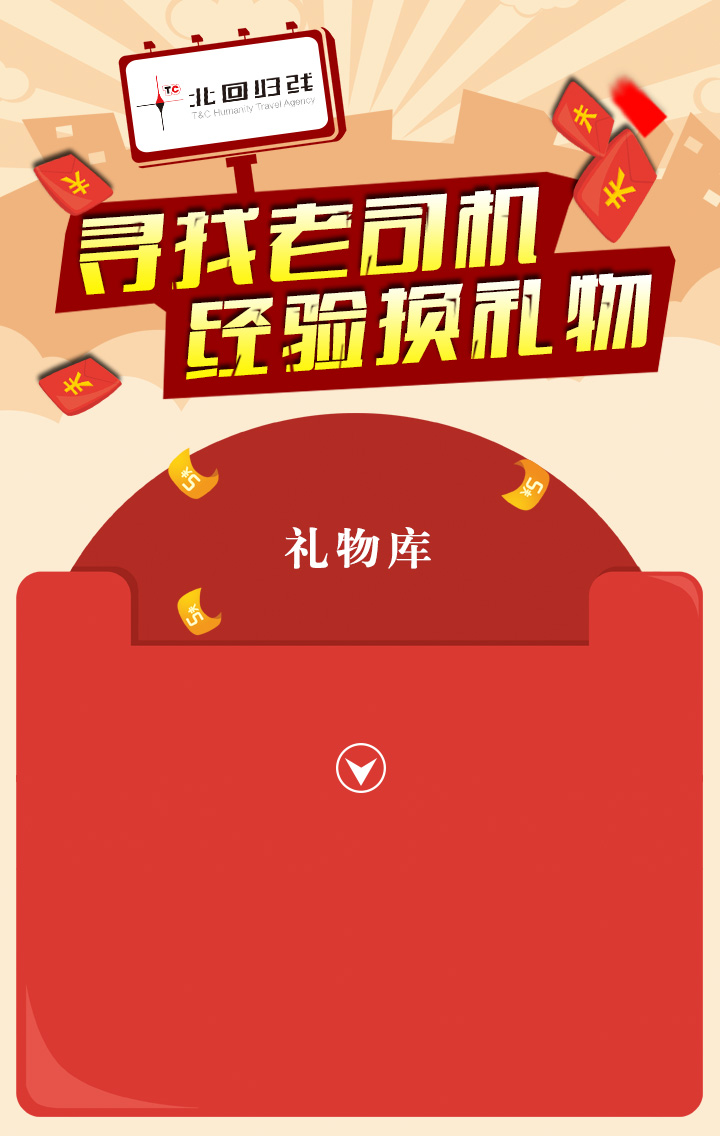
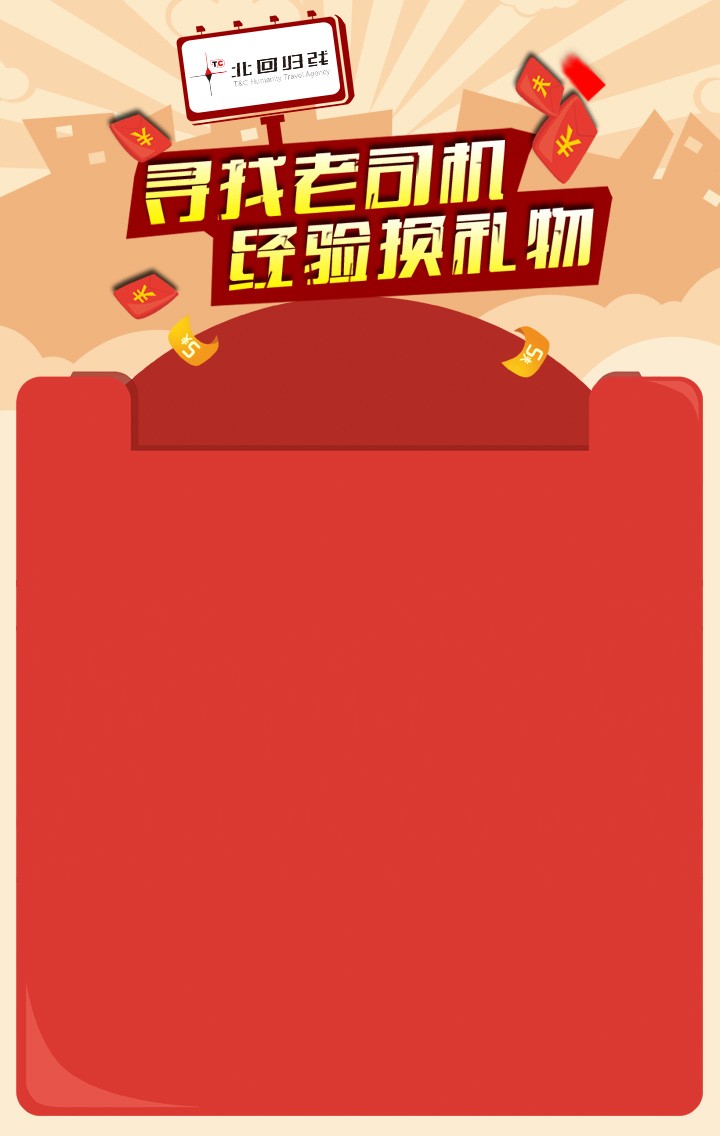
sss

diff --git a/pub/style.css b/pub/style.css
@@ -325,6 +325,7 @@ article,aside,section,canvas,details,figcaption,figure,footer,header,hgroup,menu
       margin-top:1.46rem;
     }
 }
+.lw-bg{background-image: url(../pub/lw-bg.jpg);background-repeat: no-repeat;background-size: 4.15rem;background-color: rgb(224,0,3);}
 .check-bg{background-image: url(../pub/check-bg.jpg);background-repeat: no-repeat;background-size: 4.15rem;background-color: rgb(224,0,3);}
 .index-bg{background-image: url(../pub/index-bg.jpg);background-repeat: no-repeat;background-size: 4.15rem;background-color: rgb(224,0,3);}
 .explain-bg{background-image: url(../pub/explain-bg.jpg);background-repeat: no-repeat;background-size: 4.15rem;background-color: rgb(224,0,3);}
@@ -336,6 +337,9 @@ article,aside,section,canvas,details,figcaption,figure,footer,header,hgroup,menu
 .btn-send1{background-image: url('../pub/btn-send1.png');width: 1.4rem;background-repeat: no-repeat;background-size: 1.5rem;display: inline-block;height: 0.32rem;border-radius: .1rem;margin: .1rem;}
 .btn-send2{background-image: url('../pub/btn-send2.png');width: 1.4rem;background-repeat: no-repeat;background-size: 1.5rem;display: inline-block;height: 0.32rem;border-radius: .1rem;margin: .1rem;}
 .btn-send3{background-image: url('../pub/btn-send3.png');width: 1.4rem;background-repeat: no-repeat;background-size: 1.5rem;display: inline-block;height: 0.32rem;border-radius: .1rem;margin: .1rem;}
+
+.btn-send56{background-image: url('../pub/1.5.2.gif');width: 1.5rem;background-repeat: no-repeat;background-size: 1.5rem;display: inline-block;height: 0.4rem;border-radius: .4rem;margin: .1rem;padding-left: .2rem;}
+
 .btn-send4{background-image: url('../pub/btn-send4.png');width: 1.4rem;background-repeat: no-repeat;background-size: 1.5rem;display: inline-block;height: 0.32rem;border-radius: .1rem;margin: .1rem;}
 .btn-back{background-image: url('../pub/btn-back.png');width: 1.4rem;background-repeat: no-repeat;background-size: 1.5rem;display: inline-block;height: 0.32rem;border-radius: .1rem;margin: .1rem;}
 .btn-come{background-image: url('../pub/btn-come.png');width: 1.4rem;background-repeat: no-repeat;background-size: 1.5rem;display: inline-block;height: 0.32rem;border-radius: .1rem;margin: .1rem;}

diff --git a/zl.php b/zl.php
@@ -152,25 +152,27 @@ $zhuren = $zhurendd[0];
 </style>
 </head>
 <body class="home-bg">
-<p class="time-title">倒计时</p>
-<p class="timer">
-	<font id="day"></font>
-	<span>天</span>
-	<font id="hour"></font>
-	<span>时</span>
-	<font id="minute"></font>
-	<span>分</span>
-	<font id="second"></font>
-	<span>秒</span>
-</p>
+ <?php
+    	$sqldwd = "select * from gift where id='{$zhuren['gift_id']}';";
+		$rew = select_DB_2($sqldwd);
+		$okok = $rew[0];
+    ?>
+    <?php //echo "<img src='{$okok['content']}' height='30' width='30'/>"; ?>
+<p class="time-title">
 
+</p>
+<p class="timer">
+
+	
+</p>
+<br/>
 <div class="userinfo">
 	<div class="list-head">
 		<img src="<?php echo $zhuren['headimgurl'];?>" alt="">
 	</div>
 	<p class="txt" style="font-weight:bold;"><?php echo "{$zhuren['nickname']}"; ?></p>
 <?php
-	$sqlpai = "SELECT COUNT( * ) as bb FROM event_user WHERE praised_num >= ( SELECT praised_num FROM event_user WHERE wx_id='{$zhuren['wx_id']}' ) AND gift_id='{$zhuren['gift_id']}';";
+	$sqlpai = "SELECT COUNT( * ) as bb FROM event_user WHERE praised_num >= ( SELECT praised_num FROM event_user WHERE wx_id='{$zhuren['wx_id']}' );";
 	$re12a = select_DB_2($sqlpai);
 	//var_dump($re12a);exit;
 ?>
@@ -270,11 +272,7 @@ wx.ready(function(){
                    ] // 要隐藏的菜单项
   });
     // config信息验证后会执行ready方法，所有接口调用都必须在config接口获得结果之后，config是一个客户端的异步操作，所以如果需要在页面加载时就调用相关接口，则须把相关接口放在ready函数中调用来确保正确执行。对于用户触发时才调用的接口，则可以直接调用，不需要放在ready函数中。
-    <?php
-    	$sqldwd = "select * from gift where id='{$zhuren['gift_id']}';";
-		$rew = select_DB_2($sqldwd);
-		$okok = $rew[0];
-    ?>
+   
 	wx.onMenuShareAppMessage({
 	    title: '我想要用旅行经验换<?php echo $okok["title"];?>，快来帮<?php echo $zhuren["nickname"];?>助力', // 分享标题
 	    desc: '我想要用旅行经验换<?php echo $okok["title"];?>，快来帮<?php echo $zhuren["nickname"];?>助力', // 分享描述

diff --git a/xw.php b/xw.php
@@ -113,7 +113,7 @@ if(isset($_GET["ss"]))//是否存在"ss"的参数，说明在提交礼物
     background-image: linear-gradient(top, #feb100 0%, #e8a201 100%);/*颜色渐变效果*/} 
 </style>
 </head>
-<body class="index-bg">
+<body class="lw-bg">
 <?php
 $sql12 = "select level from event_user a,wx_user b where a.wx_id=b.id and b.openid='{$openid}';";
 //echo $sql12;
@@ -127,11 +127,14 @@ $gg = $re12[0]['level'];
 <div class="line"></div>
 */
 ?>
-<div style="height:100%;margin-top:2.5rem;">
+<div style="height:100%;margin-top:3.5rem;">
 <!--
 <p class="lin-txt">
-<a href="https://weidian.com/?userid=1172856672&wfr=wx"><button class="btn-send3"></button></a>
+
 </p>-->
+<div style="text-align:center;">
+<a href="https://weidian.com/?userid=1172856672&wfr=wx" style="text-align:center;"><button class="btn-send56"></button></a>
+</div>
 <form action="/huodong/xw.php" method="get" >
 <p class="lin-txt">
 	<span>选择礼物：</span>

diff --git a/sh.php b/sh.php
@@ -101,9 +101,12 @@ $zzh = new weixinController();
 		<?php
 		if($_GET['s'] == "loading"){
 			//echo "还在审核中，请等待通知！";
+			//sleep(2);
+			//redirect("/huodong/index.php");
 		}
 		if($_GET['s'] == "NO"){
 			//echo "您的资料信息审核未通过！感谢你的参与，谢谢！";
+			//redirect("/huodong/index.php");
 		}
 		?>
 
@@ -134,20 +137,15 @@ wx.ready(function(){
 });
 </script>
 <script language="javascript">
+
 var secs = 3; //倒计时的秒数 
 var URL ;
 function Load(url){
-URL = url;
-for(var i=secs;i>=0;i--) 
-{ 
-   window.setTimeout('doUpdate(' + i + ')', (secs-i) * 1000); 
-} 
+//window.location.reload();
+//self.opener.location.reload();
+parent.location.reload();
 }
-function doUpdate(num) 
-{ 
-//document.getElementById('ShowDiv').innerHTML = '将在'+num+'秒后自动跳转到主页' ;
-if(num == 0) { window.location = URL; }
-}
+
 </script>
 </body>
 </html>

diff --git a/cy.php b/cy.php
@@ -30,6 +30,7 @@ $openid = $z_userinfo['openid'];
       }
 
       insert_DB("INSERT INTO event_user (wx_id,user_name,phone,content,img_url,gift_id,if_maike) VALUES ('{$u_id}','{$u_name}','{$u_phone}','{$u_content}','{$u_file_name}','{$u_gift_id}','1');");
+ 
       redirect("/huodong/sh.php?s=OK");
   }
   

diff --git a/index.php b/index.php
@@ -33,6 +33,7 @@ $zzh = new weixinController();
 
 <script src="http://res.wx.qq.com/open/js/jweixin-1.0.0.js" type="text/javascript" charset="utf-8"></script>
 <script>
+$(window).scrollTop(0);
 wx.config({
     debug: false, 
     appId: '<?php echo $signPackage["appId"];?>',
